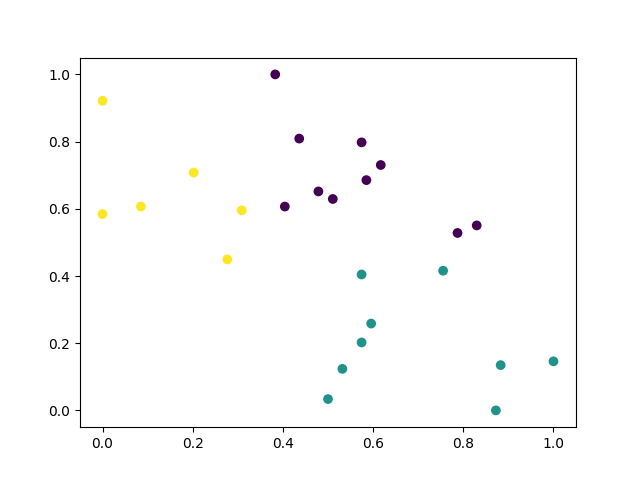
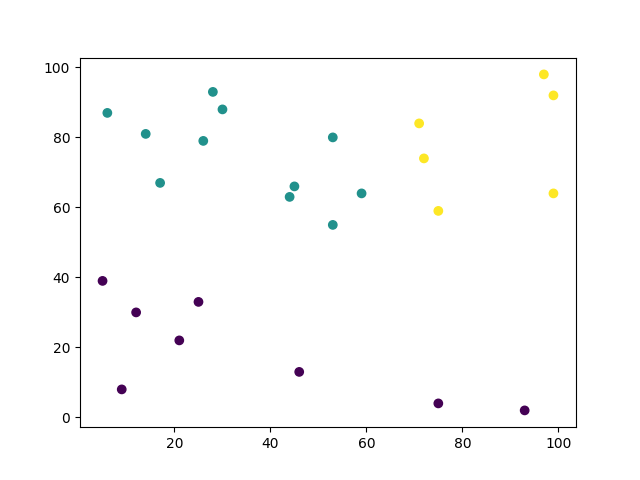
optimized code

diff --git a/kmeans_clustering.py b/kmeans_clustering.py
@@ -1,6 +1,6 @@
 # init KMeans model
 from sklearn.cluster import KMeans
-model = KMeans(n_clusters=3, random_state=100)
+model = KMeans(n_clusters=3)
 
 
 # load libs
@@ -13,17 +13,11 @@ import matplotlib.pyplot as plt
 df = pd.DataFrame({'x': np.random.randint(1, 100, 25), 'y': np.random.randint(1, 100, 25)}, columns=['x', 'y'])
 
 
-# scale 
-from sklearn.preprocessing import MinMaxScaler
-scaler = MinMaxScaler()
-df_scaled = pd.DataFrame(scaler.fit_transform(df), columns=['x', 'y'])
+# cluster
+clustered = model.fit_predict(df)
 
 
-# clusterize
-clustered = model.fit_predict(df_scaled)
-
-
-# plt.scatter(df['x'], df['y'])
-plt.scatter(df_scaled['x'], df_scaled['y'], c=clustered)
-plt.savefig('kmeans_clestering.png')
+# plot results
+plt.scatter(df['x'], df['y'], c=clustered)
+plt.savefig('kmeans_clustering.png')
 plt.show()
